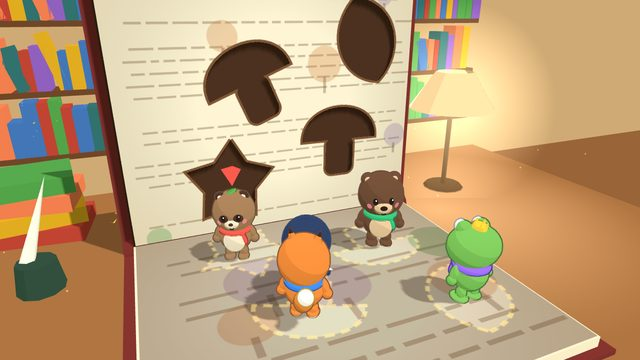
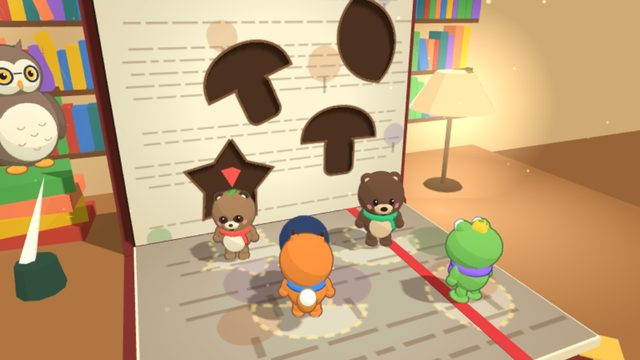
ぱらぱらブック: 会場を 作り込む(光の 帯と ほこり・表紙の 金の かど・しおり・ページの かさなり・机の 上の ホーホー先生)
Claude-Session: https://claude.ai/code/session_01Cisc6eBGskeR7WZHkdup4y

diff --git a/src/games/ehon/stage.js b/src/games/ehon/stage.js
@@ -4,7 +4,8 @@
 // 手前の ページ(床)の 上で 5人が 走る。奥には 表紙が 立っていて、その 前に 穴の あいた ページが 立つ。
 // ページは 紙の 色に 森の 絵と 文字の 行。穴は どんぐり・葉っぱ・星・花・キノコの 形に 切りぬく。
 // 床には たおれてくる 穴の 影(穴の ところだけ 明るい)。
-// 奥の かべには 本棚、横に 机の ランプ(あたたかい 光)。
+// 奥の かべには 本棚、横に 机の ランプ(あたたかい 光)。窓から 光の 帯が さしこみ、ほこりが きらきら 舞う。
+// 本の 表紙には 金の かど、とじめから 赤い しおりの ひも。手前の ページの ふちには 紙の かさなりの すじ。
 //
 // 座標: 本の とじめ(ページが たおれる 軸)が x 軸(z = 0)。手前の ページの 面が y = 0。
 
@@ -216,8 +217,70 @@ export function buildStage(scene) {
     b.rotation.y = (k % 2 ? 0.15 : -0.1);
     g.add(b);
   }
+  // 表紙の 金の かど と、手前に たれる しおり
+  const gold = toonMaterial(0xe8b84a);
+  for (const sx of [-1, 1]) {
+    const c = new THREE.Mesh(new THREE.BoxGeometry(0.7, 0.14, 0.7), gold);
+    c.position.set(sx * (W / 2 + 0.05), -0.28, D + 0.05);
+    c.rotation.y = Math.PI / 4;
+    g.add(c);
+    const c2 = new THREE.Mesh(new THREE.BoxGeometry(0.7, 0.7, 0.14), gold);
+    c2.position.set(sx * (W / 2 + 0.05), D + 0.05, -0.36);
+    c2.rotation.z = Math.PI / 4;
+    g.add(c2);
+  }
+  const ribbon = new THREE.Mesh(new THREE.BoxGeometry(0.28, 0.02, D + 1.6), toonMaterial(0xd83a3a));
+  ribbon.position.set(W * 0.28, 0.005, D / 2 + 0.6);
+  g.add(ribbon);
+  const tail = new THREE.Mesh(new THREE.BoxGeometry(0.28, 1.0, 0.02), toonMaterial(0xd83a3a));
+  tail.position.set(W * 0.28, -0.7, D + 1.4);
+  g.add(tail);
+  // 手前の ページの かさなり(ふちの すじ)
+  const edgeMat = toonMaterial(0xd8c8a0);
+  for (let k = 0; k < 4; k++) {
+    const e = new THREE.Mesh(new THREE.BoxGeometry(W + 0.12, 0.015, 0.03), edgeMat);
+    e.position.set(0, -0.04 - k * 0.05, D + 0.04);
+    g.add(e);
+  }
   mergeStatic(g);
   scene.add(g);
+
+  // 窓からの 光の 帯(左上から ななめに)と、その中の ほこり
+  const beamTex = (() => {
+    const c = document.createElement('canvas');
+    c.width = 64;
+    c.height = 256;
+    const x = c.getContext('2d');
+    const gr = x.createLinearGradient(0, 0, 64, 0);
+    gr.addColorStop(0, 'rgba(255,240,200,0)');
+    gr.addColorStop(0.5, 'rgba(255,240,200,.5)');
+    gr.addColorStop(1, 'rgba(255,240,200,0)');
+    x.fillStyle = gr;
+    x.fillRect(0, 0, 64, 256);
+    const fade = x.createLinearGradient(0, 0, 0, 256);
+    fade.addColorStop(0, 'rgba(0,0,0,0)');
+    fade.addColorStop(1, 'rgba(0,0,0,1)');
+    x.globalCompositeOperation = 'destination-out';
+    x.fillStyle = fade;
+    x.fillRect(0, 0, 64, 256);
+    return new THREE.CanvasTexture(x.canvas);
+  })();
+  const beams = [];
+  for (let i = 0; i < 3; i++) {
+    const b = new THREE.Mesh(new THREE.PlaneGeometry(2.2 + i * 0.6, 22), new THREE.MeshBasicMaterial({ map: beamTex, transparent: true, depthWrite: false, blending: THREE.AdditiveBlending, opacity: 0.35, side: THREE.DoubleSide }));
+    b.position.set(-9 + i * 3.2, 6, -4 + i * 1.2);
+    b.rotation.set(0.2, 0.3, -0.55);
+    scene.add(b);
+    beams.push(b);
+  }
+  const DN = 70;
+  const dustPos = new Float32Array(DN * 3), dust = [];
+  for (let i = 0; i < DN; i++) {
+    dust.push({ x: (rand() - 0.5) * 16, y: rand() * 9, z: -6 + rand() * 12, ph: rand() * 6 });
+    dustPos.set([dust[i].x, dust[i].y, dust[i].z], i * 3);
+  }
+  const dustGeo = new THREE.BufferGeometry();
+  dustGeo.setAttribute('position', new THREE.BufferAttribute(dustPos, 3));
 
   // ランプの あかり(やわらかい 光の まる)
   const glowTex = (() => {
@@ -252,5 +315,19 @@ export function buildStage(scene) {
     return m;
   })();
   scene.add(floorPage);
-  return { group: g, floorPage, glow };
+  const dustPts = new THREE.Points(dustGeo, new THREE.PointsMaterial({ size: 0.16, map: glowTex, color: 0xfff0c8, transparent: true, depthWrite: false, blending: THREE.AdditiveBlending }));
+  scene.add(dustPts);
+  return {
+    group: g, floorPage, glow,
+    update(t) {
+      for (let i = 0; i < DN; i++) {
+        const d = dust[i];
+        dustPos[i * 3] = d.x + Math.sin(t * 0.3 + d.ph) * 0.6;
+        dustPos[i * 3 + 1] = ((d.y + t * 0.15) % 9) + 0.2;
+        dustPos[i * 3 + 2] = d.z + Math.cos(t * 0.25 + d.ph) * 0.5;
+      }
+      dustGeo.attributes.position.needsUpdate = true;
+      beams.forEach((b, i) => { b.material.opacity = 0.28 + Math.sin(t * 0.4 + i) * 0.07; });
+    },
+  };
 }

diff --git a/src/games/ehon/game.js b/src/games/ehon/game.js
@@ -172,7 +172,14 @@ export async function createEhon({ renderer, settings, getAudio, onExit }) {
   let intro = 1;
   const INTRO_TIME = 2.4;
   const input = { touch: null, stick: null, keys: new Set(), target: null };
-  await preload(CHARACTERS.map((c) => c.key));
+  await preload([...CHARACTERS.map((c) => c.key), 'hoho']);
+  // ホーホー先生: 本の 手前の 机で 見まもる(ページが たおれると ばさっ)
+  const owl = await createModel('hoho');
+  owl.play('idle');
+  owl.root.position.set(W / 2 - 1.7, -0.35, D + 1.0); // 本の 手前の 机に ちょこんと(こちらを 向いて 見まもる)
+  owl.root.rotation.y = -0.45;
+  owl.root.scale.setScalar(0.75);
+  scene.add(owl.root);
 
   async function startGame({ fromSky = false } = {}) {
     const seed = params.has('seed') ? seedFrom(params.get('seed')) : (Date.now() | 0);
@@ -368,6 +375,8 @@ export async function createEhon({ renderer, settings, getAudio, onExit }) {
           break;
         case 'flip':
           pivot.userData.flip = { t: 0, time: e.time };
+          owl.play('flap', { fade: 0.1 });
+          setTimeout(() => owl.play('idle', { fade: 0.3 }), 700);
           sfx.whoosh(e.time);
           break;
         case 'slam': {
@@ -497,6 +506,8 @@ export async function createEhon({ renderer, settings, getAudio, onExit }) {
       }
     }
     stage.glow.material.opacity = 0.85 + Math.sin(time * 2.3) * 0.08;
+    stage.update(time);
+    owl.update(dt);
   }
 
   let freeCamera = false;

diff --git a/sw.js b/sw.js
@@ -10,7 +10,7 @@
 // 版はファイルの中身から作るので、1つでも変われば sw.js が変わり、ブラウザが入れなおす。
 
 // <precache>
-const VERSION = '272221983052';
+const VERSION = '39cc04db27f0';
 const PRECACHE = [
   "./",
   "./assets/thumbs/bumper.jpg",
